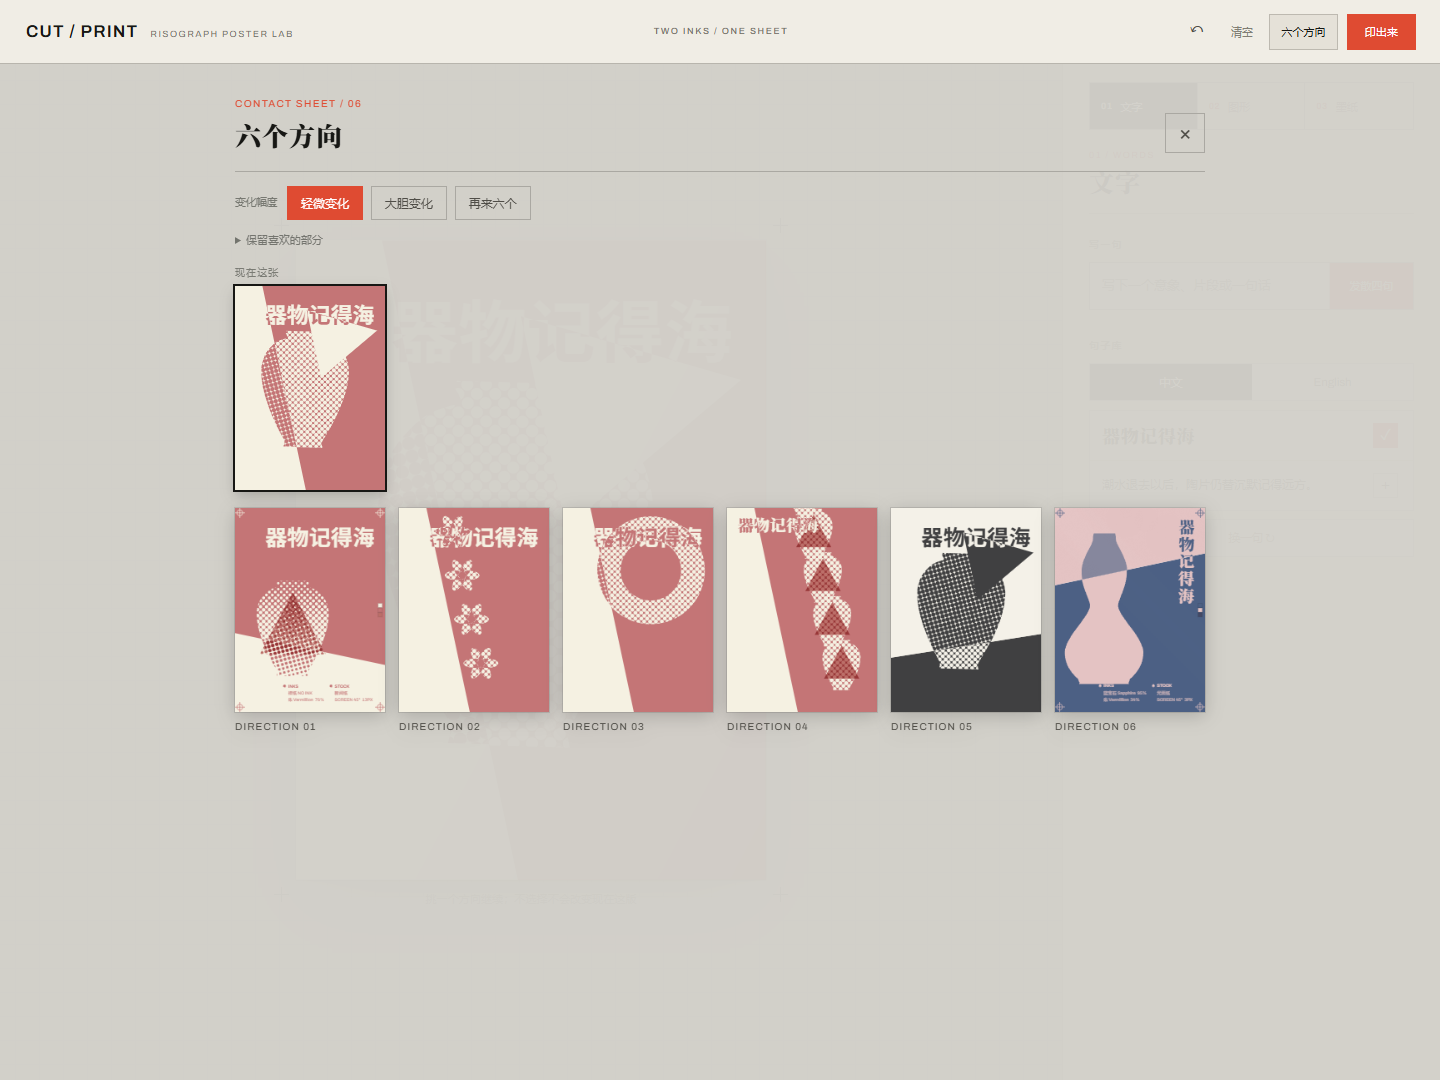
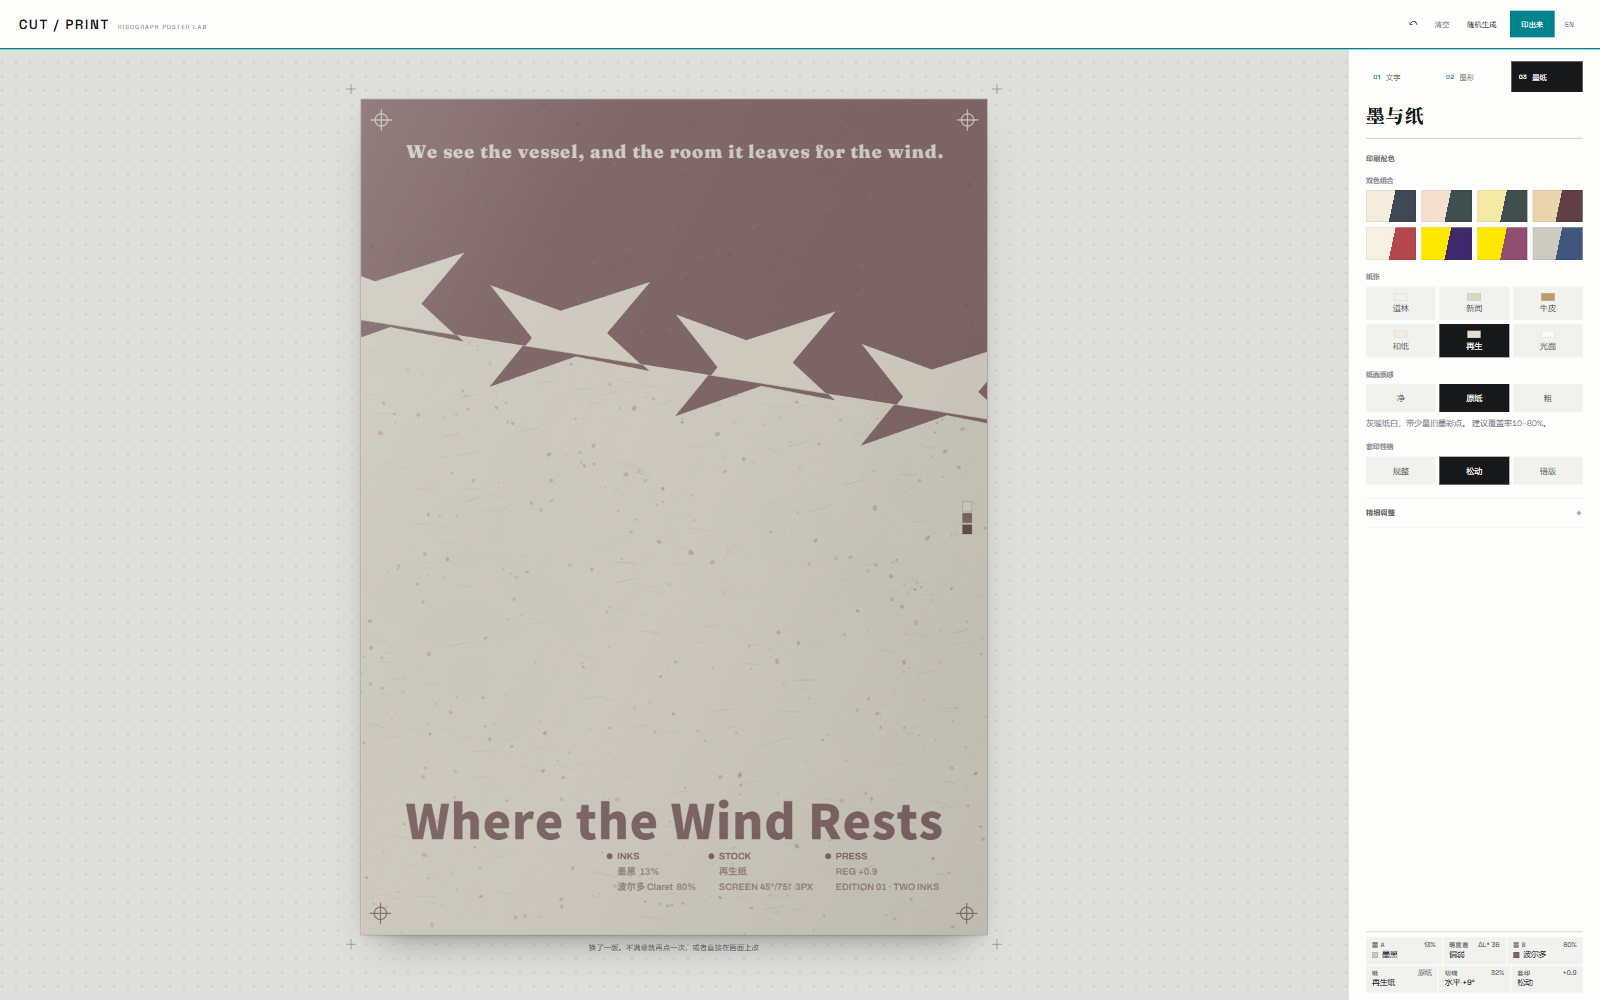
portfolio: refresh CUT / PRINT screenshots to the current interface
The project card and gallery still showed the interface before the
redesign - one screenshot was of the six-direction tray, a feature the
tool no longer has. Both retaken on the current version: the editing
view, and the ink and paper view with the recipe strip. The orphaned
press screenshot, referenced nowhere, is removed.

Captions updated to match: the tray caption described a feature that no
longer exists, and the case text now says the composition can be
regenerated in one move, which is what the tool does.

diff --git a/projects/cut-print.html b/projects/cut-print.html
@@ -16,8 +16,8 @@
     </header>
     <div class="case-cover"><div class="project-visual print-pair"><img class="" src="../images/poster-lab/finished-vessel-remembers-sea.webp" alt="Vessel Remembers the Sea, a poster exported from CUT / PRINT" loading="eager" decoding="async" fetchpriority="high"><img class="" src="../images/poster-lab/type-controls.png" alt="CUT / PRINT editing interface with typography controls" loading="eager" decoding="async" fetchpriority="high"></div></div>
 
-    <div class="case-body"><section class="case-section"><div><h2>Editing the composition</h2></div><p>Text and objects remain individually editable on the canvas. People can move, resize or remove an element without rebuilding the rest of the poster, and try related compositions while keeping control over the layout.</p></section><section class="case-section"><div><h2>Print settings</h2></div><p>Ink coverage, halftone and registration settings change the print texture. The application renders and exports with the Canvas API; photograph processing happens locally. The examples below were exported from the application.</p></section></div>
+    <div class="case-body"><section class="case-section"><div><h2>Editing the composition</h2></div><p>Text and objects remain individually editable on the canvas. People can move, resize or remove an element without rebuilding the rest of the poster, and regenerate the whole composition in one move when they want a different start.</p></section><section class="case-section"><div><h2>Print settings</h2></div><p>Ink coverage, halftone and registration settings change the print texture. The application renders and exports with the Canvas API; photograph processing happens locally. The examples below were exported from the application.</p></section></div>
 
-    <section class="case-gallery section" aria-labelledby="gallery-title"><div class="section-heading"><h2 id="gallery-title">Compositions & process</h2></div><div class="gallery-grid print-gallery"><figure><a class="zoom-link" href="../images/poster-lab/finished-vessel-remembers-sea.webp" data-zoom data-caption="Vessel Remembers the Sea. Yellow and terracotta, a vessel silhouette and layered typography." aria-label="Enlarge: Vessel Remembers the Sea. Yellow and terracotta, a vessel silhouette and layered typography."><img class="" src="../images/poster-lab/finished-vessel-remembers-sea.webp" alt="Vessel Remembers the Sea. Yellow and terracotta, a vessel silhouette and layered typography." loading="lazy" decoding="async"><span class="zoom-icon" aria-hidden="true"><svg class="icon " width="20" height="20" viewBox="0 0 24 24" fill="none" stroke="currentColor" stroke-width="1.6" stroke-linecap="round" stroke-linejoin="round" aria-hidden="true"><path d="M15 3h6v6"></path><path d="m21 3-7 7"></path><path d="m3 21 7-7"></path><path d="M9 21H3v-6"></path></svg></span></a><figcaption>Vessel Remembers the Sea. Yellow and terracotta, a vessel silhouette and layered typography.</figcaption></figure><figure><a class="zoom-link" href="../images/poster-lab/type-controls.png" data-zoom data-caption="Development screenshot: on-canvas typography and editing controls." aria-label="Enlarge: Development screenshot: on-canvas typography and editing controls."><img class="" src="../images/poster-lab/type-controls.png" alt="Development screenshot: on-canvas typography and editing controls." loading="lazy" decoding="async"><span class="zoom-icon" aria-hidden="true"><svg class="icon " width="20" height="20" viewBox="0 0 24 24" fill="none" stroke="currentColor" stroke-width="1.6" stroke-linecap="round" stroke-linejoin="round" aria-hidden="true"><path d="M15 3h6v6"></path><path d="m21 3-7 7"></path><path d="m3 21 7-7"></path><path d="M9 21H3v-6"></path></svg></span></a><figcaption>Development screenshot: on-canvas typography and editing controls.</figcaption></figure><figure><a class="zoom-link" href="../images/poster-lab/six-directions.png" data-zoom data-caption="Development screenshot: related compositions available during editing." aria-label="Enlarge: Development screenshot: related compositions available during editing."><img class="" src="../images/poster-lab/six-directions.png" alt="Development screenshot: related compositions available during editing." loading="lazy" decoding="async"><span class="zoom-icon" aria-hidden="true"><svg class="icon " width="20" height="20" viewBox="0 0 24 24" fill="none" stroke="currentColor" stroke-width="1.6" stroke-linecap="round" stroke-linejoin="round" aria-hidden="true"><path d="M15 3h6v6"></path><path d="m21 3-7 7"></path><path d="m3 21 7-7"></path><path d="M9 21H3v-6"></path></svg></span></a><figcaption>Development screenshot: related compositions available during editing.</figcaption></figure></div></section>
+    <section class="case-gallery section" aria-labelledby="gallery-title"><div class="section-heading"><h2 id="gallery-title">Compositions & process</h2></div><div class="gallery-grid print-gallery"><figure><a class="zoom-link" href="../images/poster-lab/finished-vessel-remembers-sea.webp" data-zoom data-caption="Vessel Remembers the Sea. Yellow and terracotta, a vessel silhouette and layered typography." aria-label="Enlarge: Vessel Remembers the Sea. Yellow and terracotta, a vessel silhouette and layered typography."><img class="" src="../images/poster-lab/finished-vessel-remembers-sea.webp" alt="Vessel Remembers the Sea. Yellow and terracotta, a vessel silhouette and layered typography." loading="lazy" decoding="async"><span class="zoom-icon" aria-hidden="true"><svg class="icon " width="20" height="20" viewBox="0 0 24 24" fill="none" stroke="currentColor" stroke-width="1.6" stroke-linecap="round" stroke-linejoin="round" aria-hidden="true"><path d="M15 3h6v6"></path><path d="m21 3-7 7"></path><path d="m3 21 7-7"></path><path d="M9 21H3v-6"></path></svg></span></a><figcaption>Vessel Remembers the Sea. Yellow and terracotta, a vessel silhouette and layered typography.</figcaption></figure><figure><a class="zoom-link" href="../images/poster-lab/type-controls.png" data-zoom data-caption="Development screenshot: on-canvas typography and editing controls." aria-label="Enlarge: Development screenshot: on-canvas typography and editing controls."><img class="" src="../images/poster-lab/type-controls.png" alt="Development screenshot: on-canvas typography and editing controls." loading="lazy" decoding="async"><span class="zoom-icon" aria-hidden="true"><svg class="icon " width="20" height="20" viewBox="0 0 24 24" fill="none" stroke="currentColor" stroke-width="1.6" stroke-linecap="round" stroke-linejoin="round" aria-hidden="true"><path d="M15 3h6v6"></path><path d="m21 3-7 7"></path><path d="m3 21 7-7"></path><path d="M9 21H3v-6"></path></svg></span></a><figcaption>Development screenshot: on-canvas typography and editing controls.</figcaption></figure><figure><a class="zoom-link" href="../images/poster-lab/six-directions.png" data-zoom data-caption="Development screenshot: inks, paper and the print recipe along the bottom." aria-label="Enlarge: Development screenshot: related compositions available during editing."><img class="" src="../images/poster-lab/six-directions.png" alt="Development screenshot: inks, paper and the print recipe along the bottom." loading="lazy" decoding="async"><span class="zoom-icon" aria-hidden="true"><svg class="icon " width="20" height="20" viewBox="0 0 24 24" fill="none" stroke="currentColor" stroke-width="1.6" stroke-linecap="round" stroke-linejoin="round" aria-hidden="true"><path d="M15 3h6v6"></path><path d="m21 3-7 7"></path><path d="m3 21 7-7"></path><path d="M9 21H3v-6"></path></svg></span></a><figcaption>Development screenshot: related compositions available during editing.</figcaption></figure></div></section>
 
     <nav class="case-pagination" aria-label="Project navigation"><a class="text-link " href="../work.html">Projects<svg class="icon " width="20" height="20" viewBox="0 0 24 24" fill="none" stroke="currentColor" stroke-width="1.6" stroke-linecap="round" stroke-linejoin="round" aria-hidden="true"><path d="m12 19-7-7 7-7"></path><path d="M19 12H5"></path></svg></a><a href="zisha.html"><span>Next project</span><strong>Yixing Zisha AR</strong><svg class="icon " width="20" height="20" viewBox="0 0 24 24" fill="none" stroke="currentColor" stroke-width="1.6" stroke-linecap="round" stroke-linejoin="round" aria-hidden="true"><path d="M5 12h14"></path><path d="m12 5 7 7-7 7"></path></svg></a></nav></main><footer class="site-footer"><div><span>Jiaxuan Gong</span><a href="mailto:gongjiaxuan169@gmail.com">gongjiaxuan169@gmail.com</a></div><div class="footer-links"><a class="text-link " href="https://scholar.google.com/citations?user=FtQ2NOUAAAAJ">Google Scholar</a><a class="text-link " href="../cv/Jiaxuan_Gong_CV.pdf">CV</a><a class="text-link " href="#top">Back to top<svg class="icon " width="20" height="20" viewBox="0 0 24 24" fill="none" stroke="currentColor" stroke-width="1.6" stroke-linecap="round" stroke-linejoin="round" aria-hidden="true"><path d="m5 12 7-7 7 7"></path><path d="M12 19V5"></path></svg></a></div></footer></div><dialog class="image-dialog" aria-labelledby="image-caption"><div class="dialog-toolbar"><a id="image-original" class="text-link" target="_blank" rel="noopener">Open full size <svg class="icon " width="20" height="20" viewBox="0 0 24 24" fill="none" stroke="currentColor" stroke-width="1.6" stroke-linecap="round" stroke-linejoin="round" aria-hidden="true"><path d="M7 7h10v10"></path><path d="M7 17 17 7"></path></svg></a><button type="button" data-close-image aria-label="Close image" title="Close image"><svg class="icon " width="20" height="20" viewBox="0 0 24 24" fill="none" stroke="currentColor" stroke-width="1.6" stroke-linecap="round" stroke-linejoin="round" aria-hidden="true"><path d="M18 6 6 18"></path><path d="m6 6 12 12"></path></svg></button></div><div class="dialog-image-area"><img id="image-enlarged" alt=""></div><p id="image-caption"></p></dialog></body></html>
